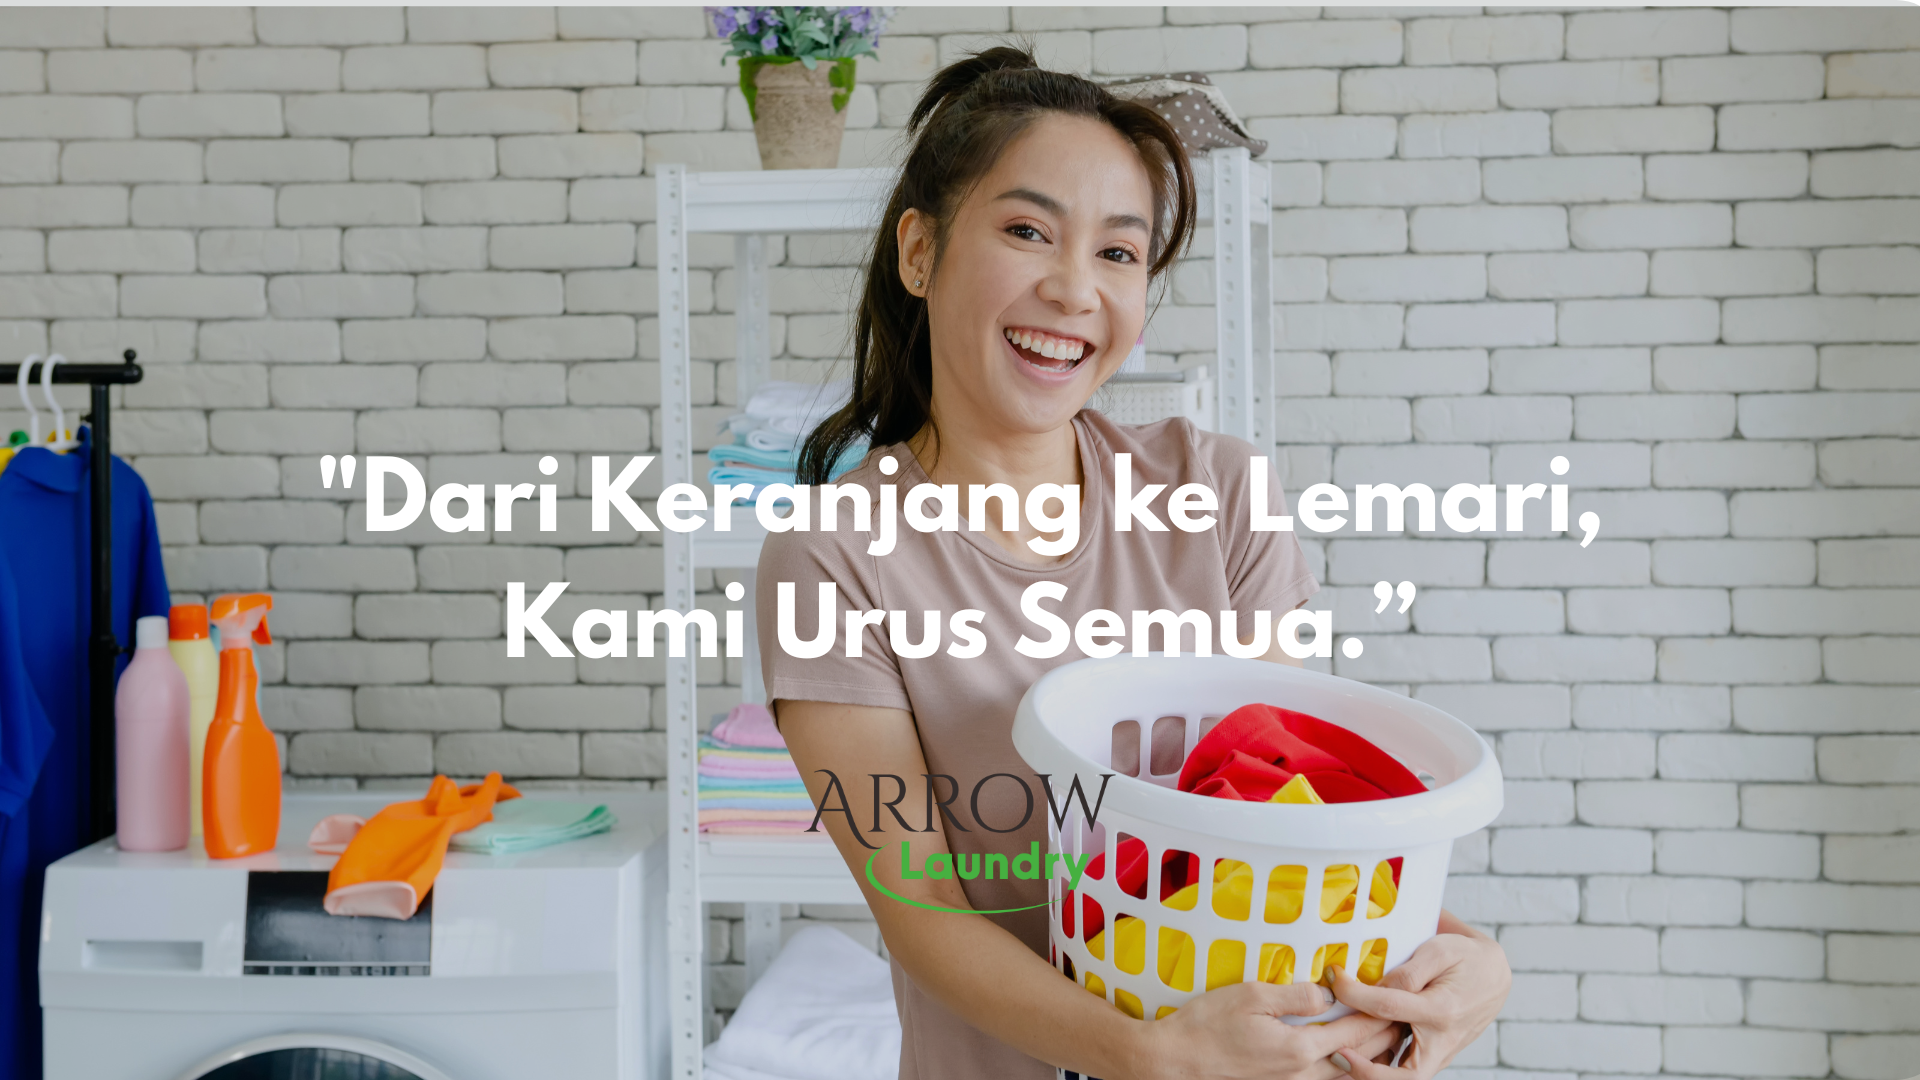
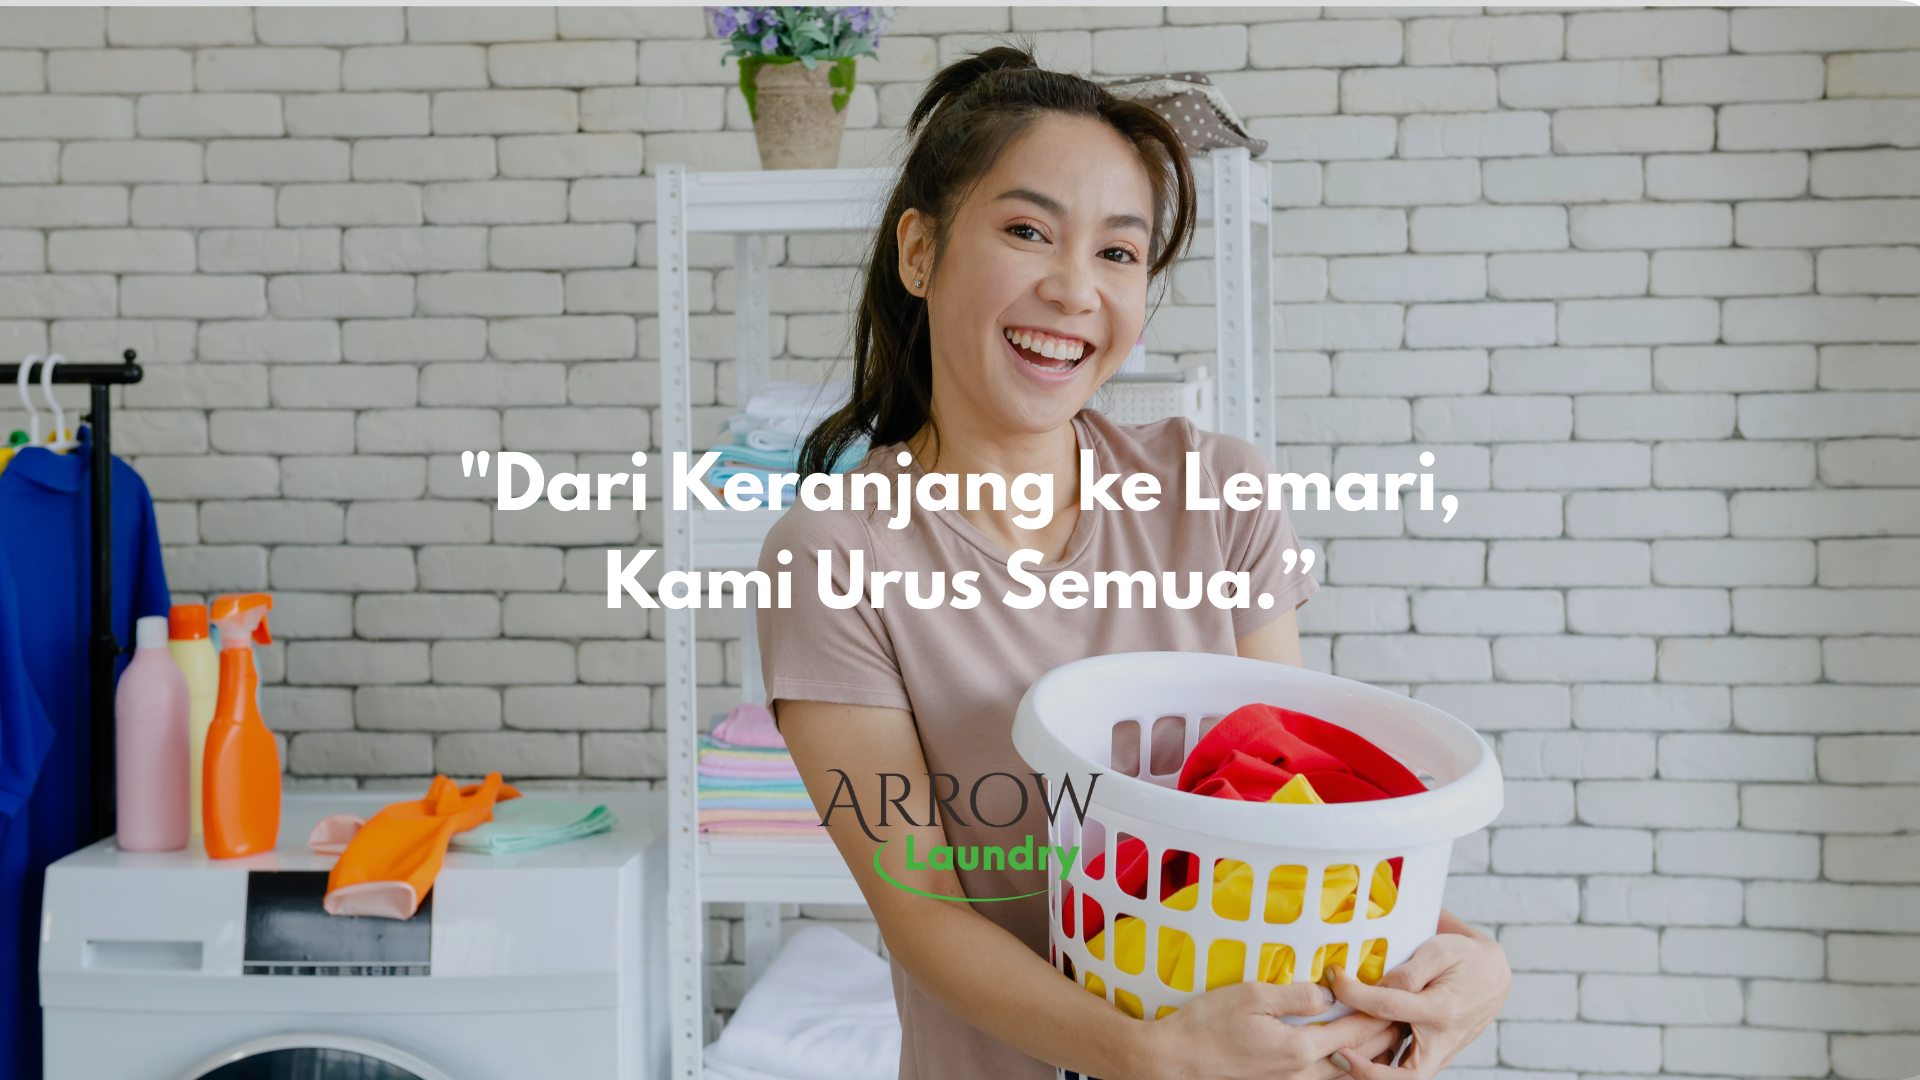
bantu beberapa

Changed region(s): [[0.1562, 0.3972, 0.8438, 0.6111], [0.4062, 0.7028, 0.5938, 0.8556]]

diff --git a/styles.css b/styles.css
@@ -141,13 +141,13 @@ img {
   left: 0;
   width: 100%;
   height: 4px;
-  background-color: rgba(255, 255, 255, 0.2);
+  background-color: rgb(255, 255, 255);
   z-index: 5;
 }
 
 .progress-bar {
   height: 100%;
-  background-color: #000000;
+  background-color: #34e108;
   animation: fill 5s linear forwards;
 }
 
